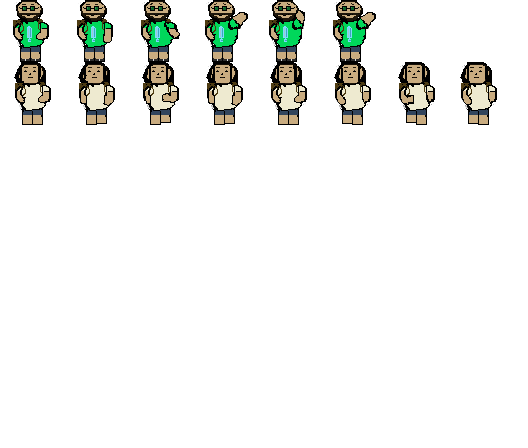
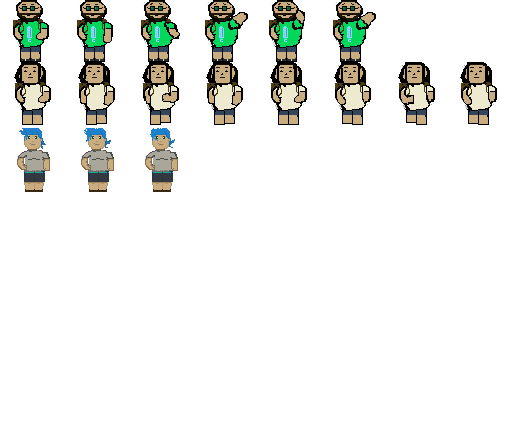
new art

Changed region(s): [[0.2727, 0.2812, 0.3636, 0.4375], [0.1515, 0.2812, 0.2424, 0.4375], [0.0303, 0.2812, 0.1212, 0.4375]]

diff --git a/landingPage/js/main.js b/landingPage/js/main.js
@@ -44,6 +44,7 @@ var sprites = -1
 var scene = new Image();
 scene.src = '../assets/town.png'
 var tutorialBro = -1;
+var blueHairBro = -1;
 var fountain = -1;
 var player = -1;
 var dialogBox = -1;
@@ -75,8 +76,19 @@ loadImage('../assets/character.png')
     tutorialBro.isMoving = false
     tutorialBro.name = "tBro"
 
+    var blueHairBroSprites = new SpriteSheet(image, 64, 64);
+    blueHairBroSprites.define("default", 0,2);
+    blueHairBroSprites.define("idle1", 1, 2);
+    blueHairBroSprites.define("idle2", 2, 2);
+    blueHairBro = new GameObject(blueHairBroSprites, 3, 400);
+    blueHairBro.sprites = blueHairBroSprites;
+    blueHairBro.active = true
+    blueHairBro.isMoving = true
+    blueHairBro.name = "bhBro"
+
     
     gameObjects.push(tutorialBro);
+    gameObjects.push(blueHairBro);
     interactableNPCs.push(tutorialBro)
     dbc = new DatabaseController(gameCanvas, player, otherPlayers, gameObjects, sprites, accountControlModule );
     var transXY = dbc.translateCoordinates(false, -.34, .1, gameCanvas)
@@ -84,8 +96,16 @@ loadImage('../assets/character.png')
     tutorialBro.posY = transXY.transY
     tutorialBro.normX = -.34
     tutorialBro.normY = .1
+
+    var transXY = dbc.translateCoordinates(false, .3, 0, gameCanvas)
+    blueHairBro.posX = transXY.transX
+    blueHairBro.posY = transXY.transY
+    blueHairBro.normX = .3
+    blueHairBro.normY = 0
     engine = new Engine(dbc, gameCanvas, player, gameObjects, interactableNPCs, dialogBox);
     controller = new Controller(gameCanvas, engine, player, msgBox, sendBtn)
+
+    
 
 
     loadImage('../assets/dialogBox.png')
